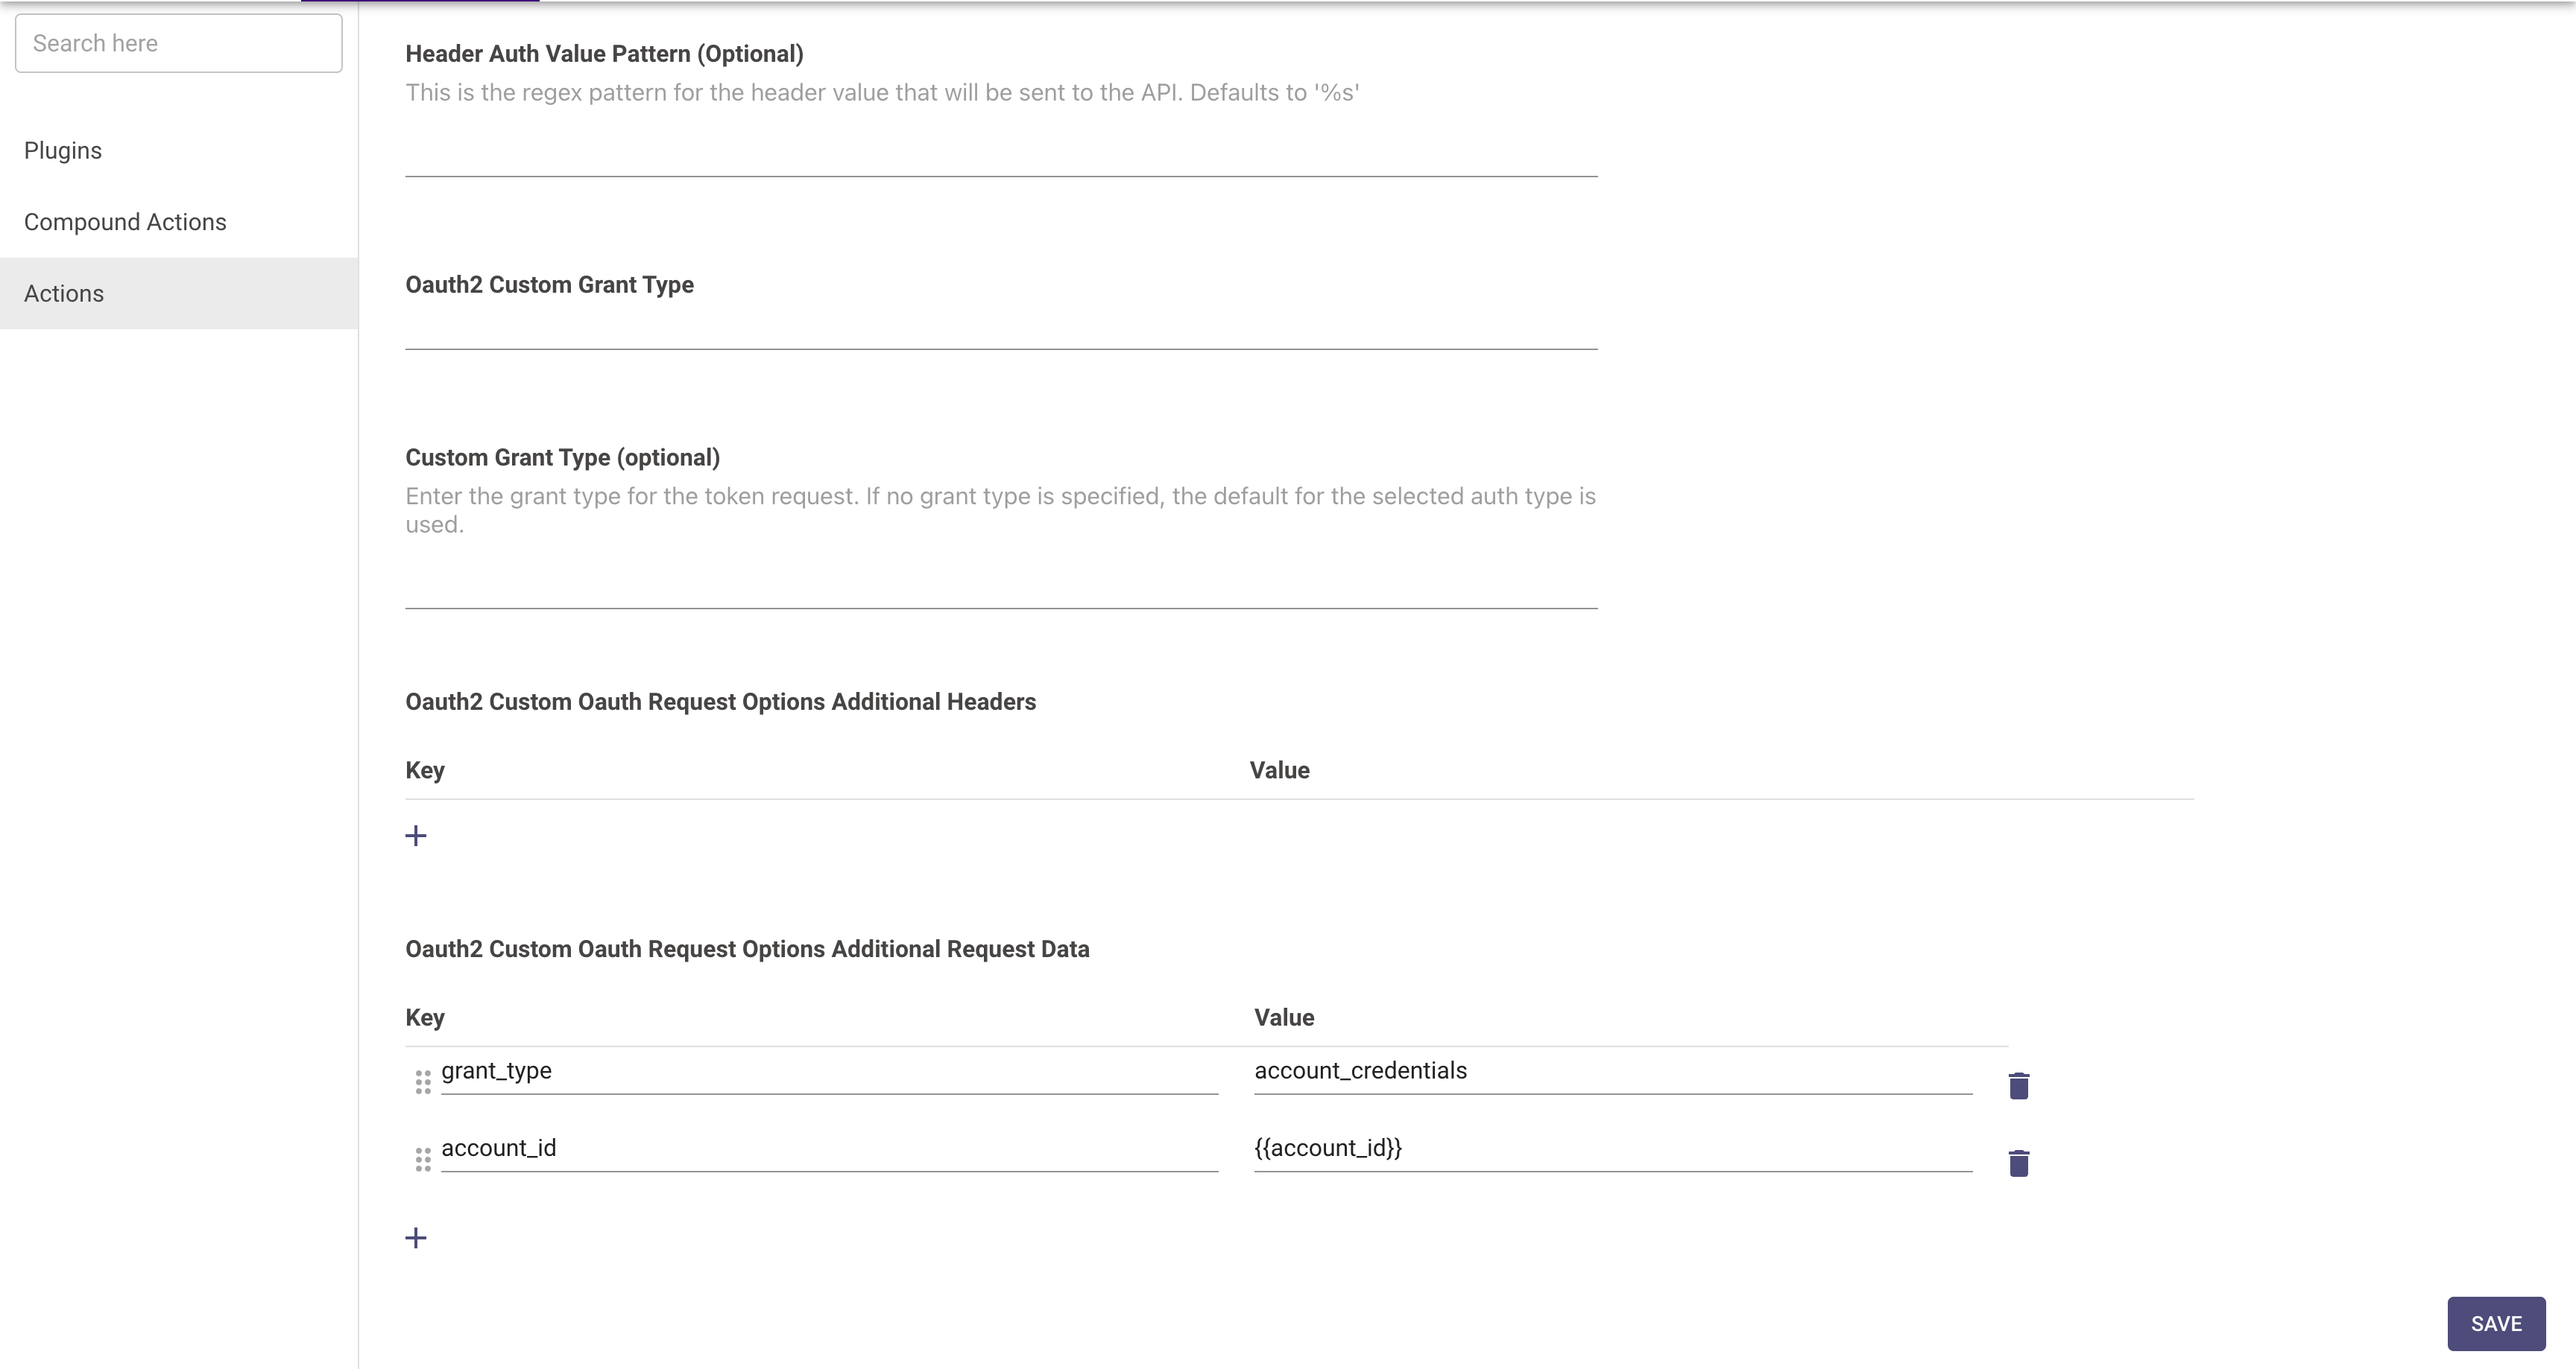
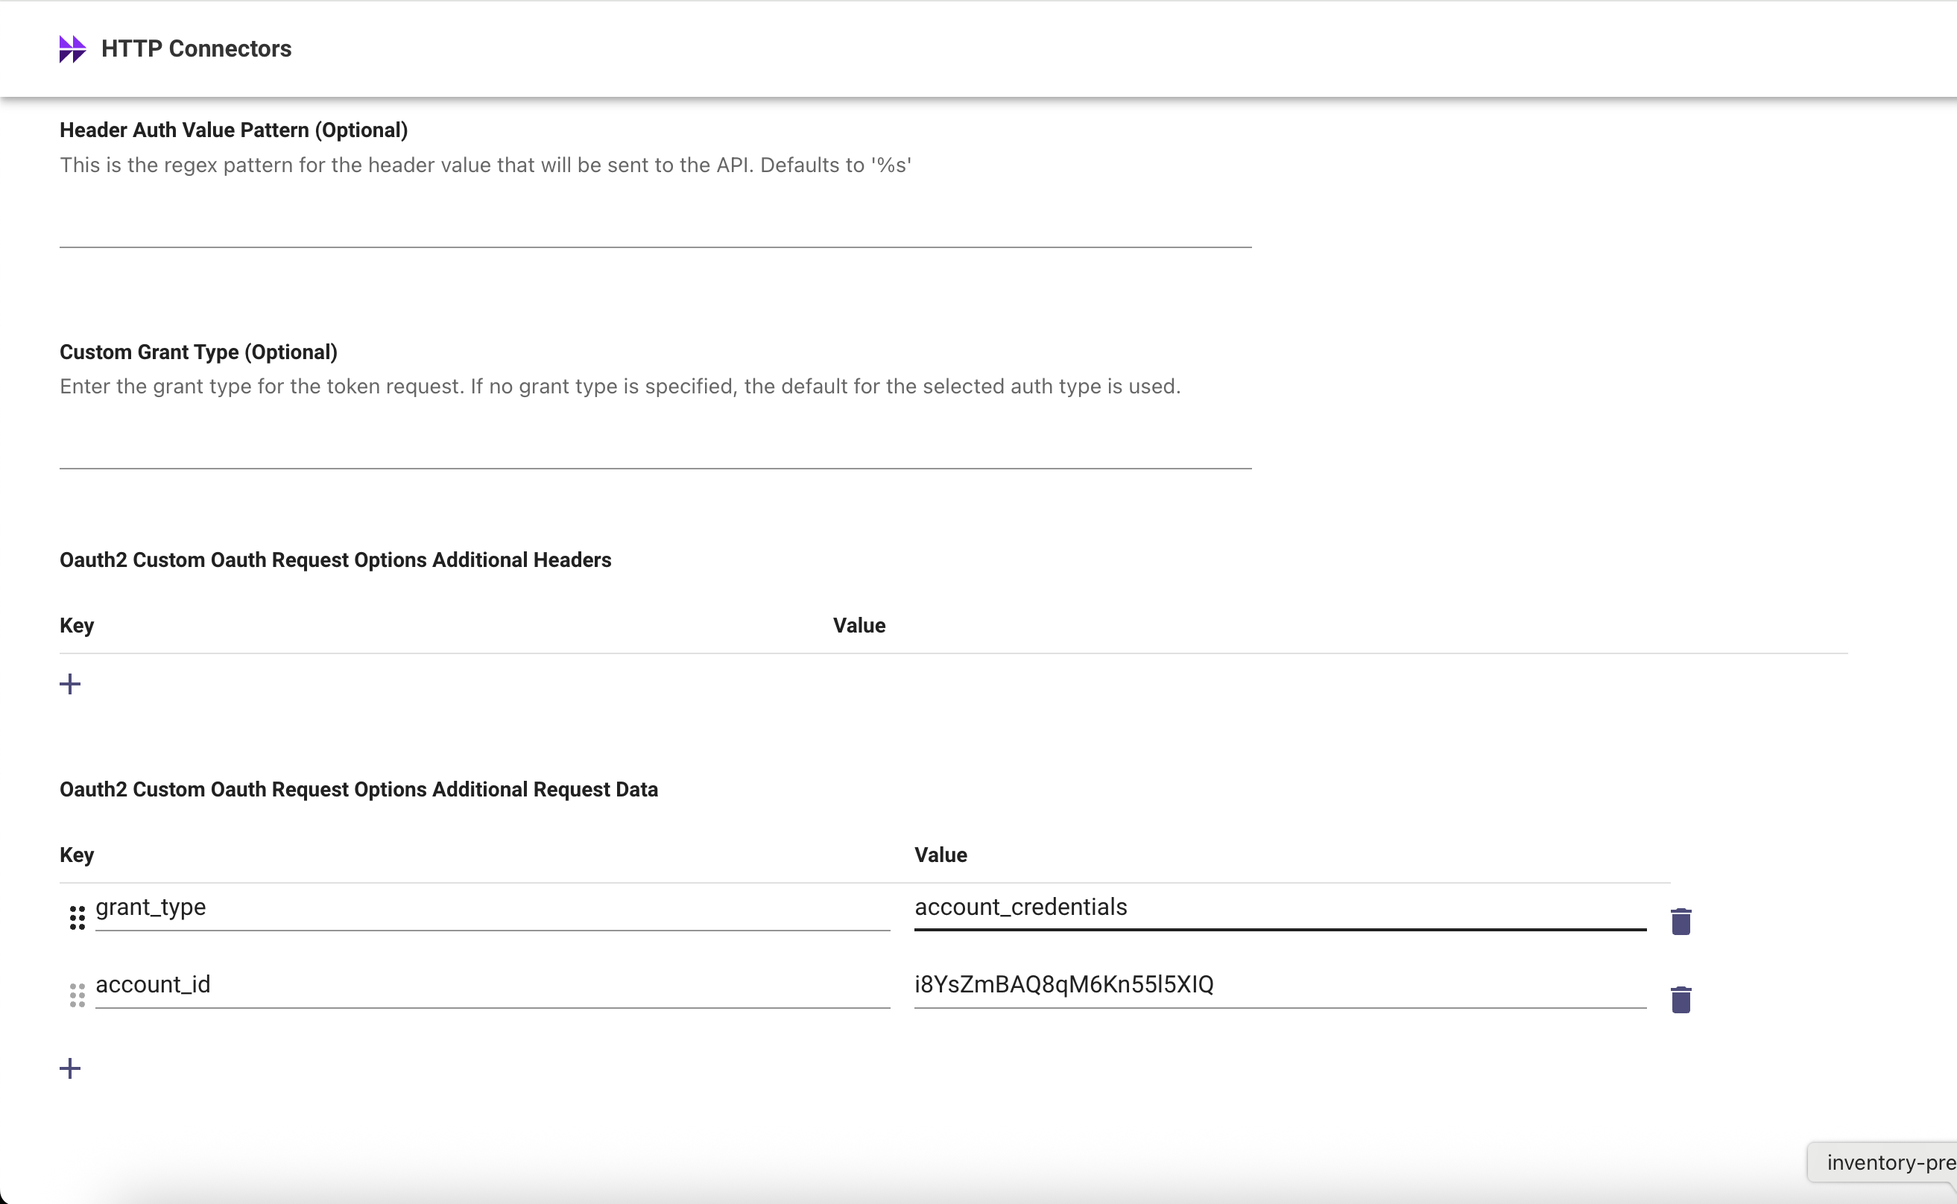
Zoom Guide Updates

diff --git a/connectors/zoom/Zoom 1b5588d8909f80eab403e031bd13a14e.md b/connectors/zoom/Zoom 1b5588d8909f80eab403e031bd13a14e.md
@@ -1,0 +1,101 @@
+# Zoom
+
+Research Owner: Moveworks
+Publish Ready: Yes
+Content Type: Connector
+Current Fidelity: Guide
+Systems: Zoom (https://www.notion.so/Zoom-1b5588d8909f8089b51bd9b58c064f0c?pvs=21)
+Plugin Library Link: https://developer.moveworks.com/creator-studio/resources/connector?id=zoom
+Status: Guide Published
+Status Summary: ❗ Targeting guide by March 21, 2025
+Slug: zoom
+Created by: Deepan Shukla
+Last edited time: August 18, 2025 1:30 PM
+Created time: March 13, 2025 3:17 PM
+Prefix Matches Connector: Yes
+Old Guide?: No
+Built-In: No
+Integration Page: No
+PR_Pending: No
+Availability: Validated
+Last edited time 1: August 18, 2025 1:30 PM
+Marketplace Request: No
+System availability: Developer instance
+
+# **Introduction**
+
+Integrating Zoom with Agent Studio allows seamless incorporation of virtual meeting data and collaboration insights to enhance your workflows. By leveraging Zoom's robust REST API and using appropriate authentication mechanisms, you can automate meeting data management and enhance your collaborative processes. This guide provides a step-by-step process to connect your Zoom instance to Agent Studio and test the integration for efficient meeting management and collaboration.
+
+# **Prerequisites**
+
+- A **Pro or Business Zoom account** is necessary for access to some endpoints.
+- A developer account on **Zoom Marketplace**.
+
+# **Step 1: Create a Server-to-Server App**
+
+1. Navigate to the Zoom App Creation Page: [https://marketplace.zoom.us/develop/create](https://marketplace.zoom.us/develop/create)
+    
+    ![image.png](Zoom%201b5588d8909f80eab403e031bd13a14e/image.png)
+    
+2. Select **Server-to-Server OAuth App**, click **Create**, and name your app.
+    
+    ![image.png](Zoom%201b5588d8909f80eab403e031bd13a14e/image%201.png)
+    
+3. Name your app (eg. *Moveworks Server2Server App*).
+    
+    ![image.png](Zoom%201b5588d8909f80eab403e031bd13a14e/image%202.png)
+    
+4. After naming your app you will be brought to this page, make sure to save your `Account ID`, `Client ID`, and `Client Secret`. Click **Continue** after saving these values.
+    
+    ![Screenshot 2025-03-17 at 1.27.17 PM.png](Zoom%201b5588d8909f80eab403e031bd13a14e/Screenshot_2025-03-17_at_1.27.17_PM.png)
+    
+5. Fill out the required fields on the Information screen and click **Continue.**
+    
+    ![image.png](Zoom%201b5588d8909f80eab403e031bd13a14e/image%203.png)
+    
+6. **Add Scopes** according to your needs. Reference this document here: [https://developers.zoom.us/docs/integrations/oauth-scopes-overview/](https://developers.zoom.us/docs/integrations/oauth-scopes-overview/)
+    
+    ![image.png](Zoom%201b5588d8909f80eab403e031bd13a14e/image%204.png)
+    
+7. **Continue** to the next page and click **Activate your app.**
+    
+    ![image.png](Zoom%201b5588d8909f80eab403e031bd13a14e/image%205.png)
+    
+8. You should see a success message confirming your app is activated.
+    
+    ![Screenshot 2025-03-17 at 1.53.40 PM.png](Zoom%201b5588d8909f80eab403e031bd13a14e/Screenshot_2025-03-17_at_1.53.40_PM.png)
+    
+
+# **Step 2: Connect Zoom to Agent Studio**
+
+- In Agent Studio, create a new HTTP Connector with the following configuration:
+    
+    ![image.png](Zoom%201b5588d8909f80eab403e031bd13a14e/image%206.png)
+    
+    - Connector Name: Assign a name to the connector
+    - Base URL : [`https://api.zoom.us`](https://api.zoom.us/v2/)
+    - Auth config : **Oauth2**
+    - Oauth2 Grant Type : **Client Credentials Grant**
+    - Client ID : `Client Id` from the Zoom app you just created.
+    - Client Secret : `Client Secret` from the Zoom app you just created.
+    - Oauth2 Token Url: [https://zoom.us/oauth/token](https://zoom.us/oauth/token)
+    - Oauth2 Client Authentication: OAuth 2.0 with Request Body
+    - Oauth2 Custom Oauth Request Options Additional Request Data:
+        - `grant_type : account_credentials`
+        - `account_id : {{account id from the zoom app you created}}`
+        
+        ![image.png](Zoom%201b5588d8909f80eab403e031bd13a14e/image%207.png)
+        
+        - Click on Save.
+- You can test your Connector by setting up a demo API action:
+    - Example API: **Retrieve an user :**
+        - `GET /users/{userId}`: View a user's information on a Zoom account.
+    - Fill out the Endpoint URL `/users/{userId}` and pass ***“me”*** or a ***registered email ID*** as `{userID}` .
+    - Click on **Test** to check if the Connector setup was successful and expect a successful response as shown below:
+        
+        ![image.png](Zoom%201b5588d8909f80eab403e031bd13a14e/image%208.png)
+        
+
+# Congratulations!
+
+You just connected your Zoom App to Agent Studio.
